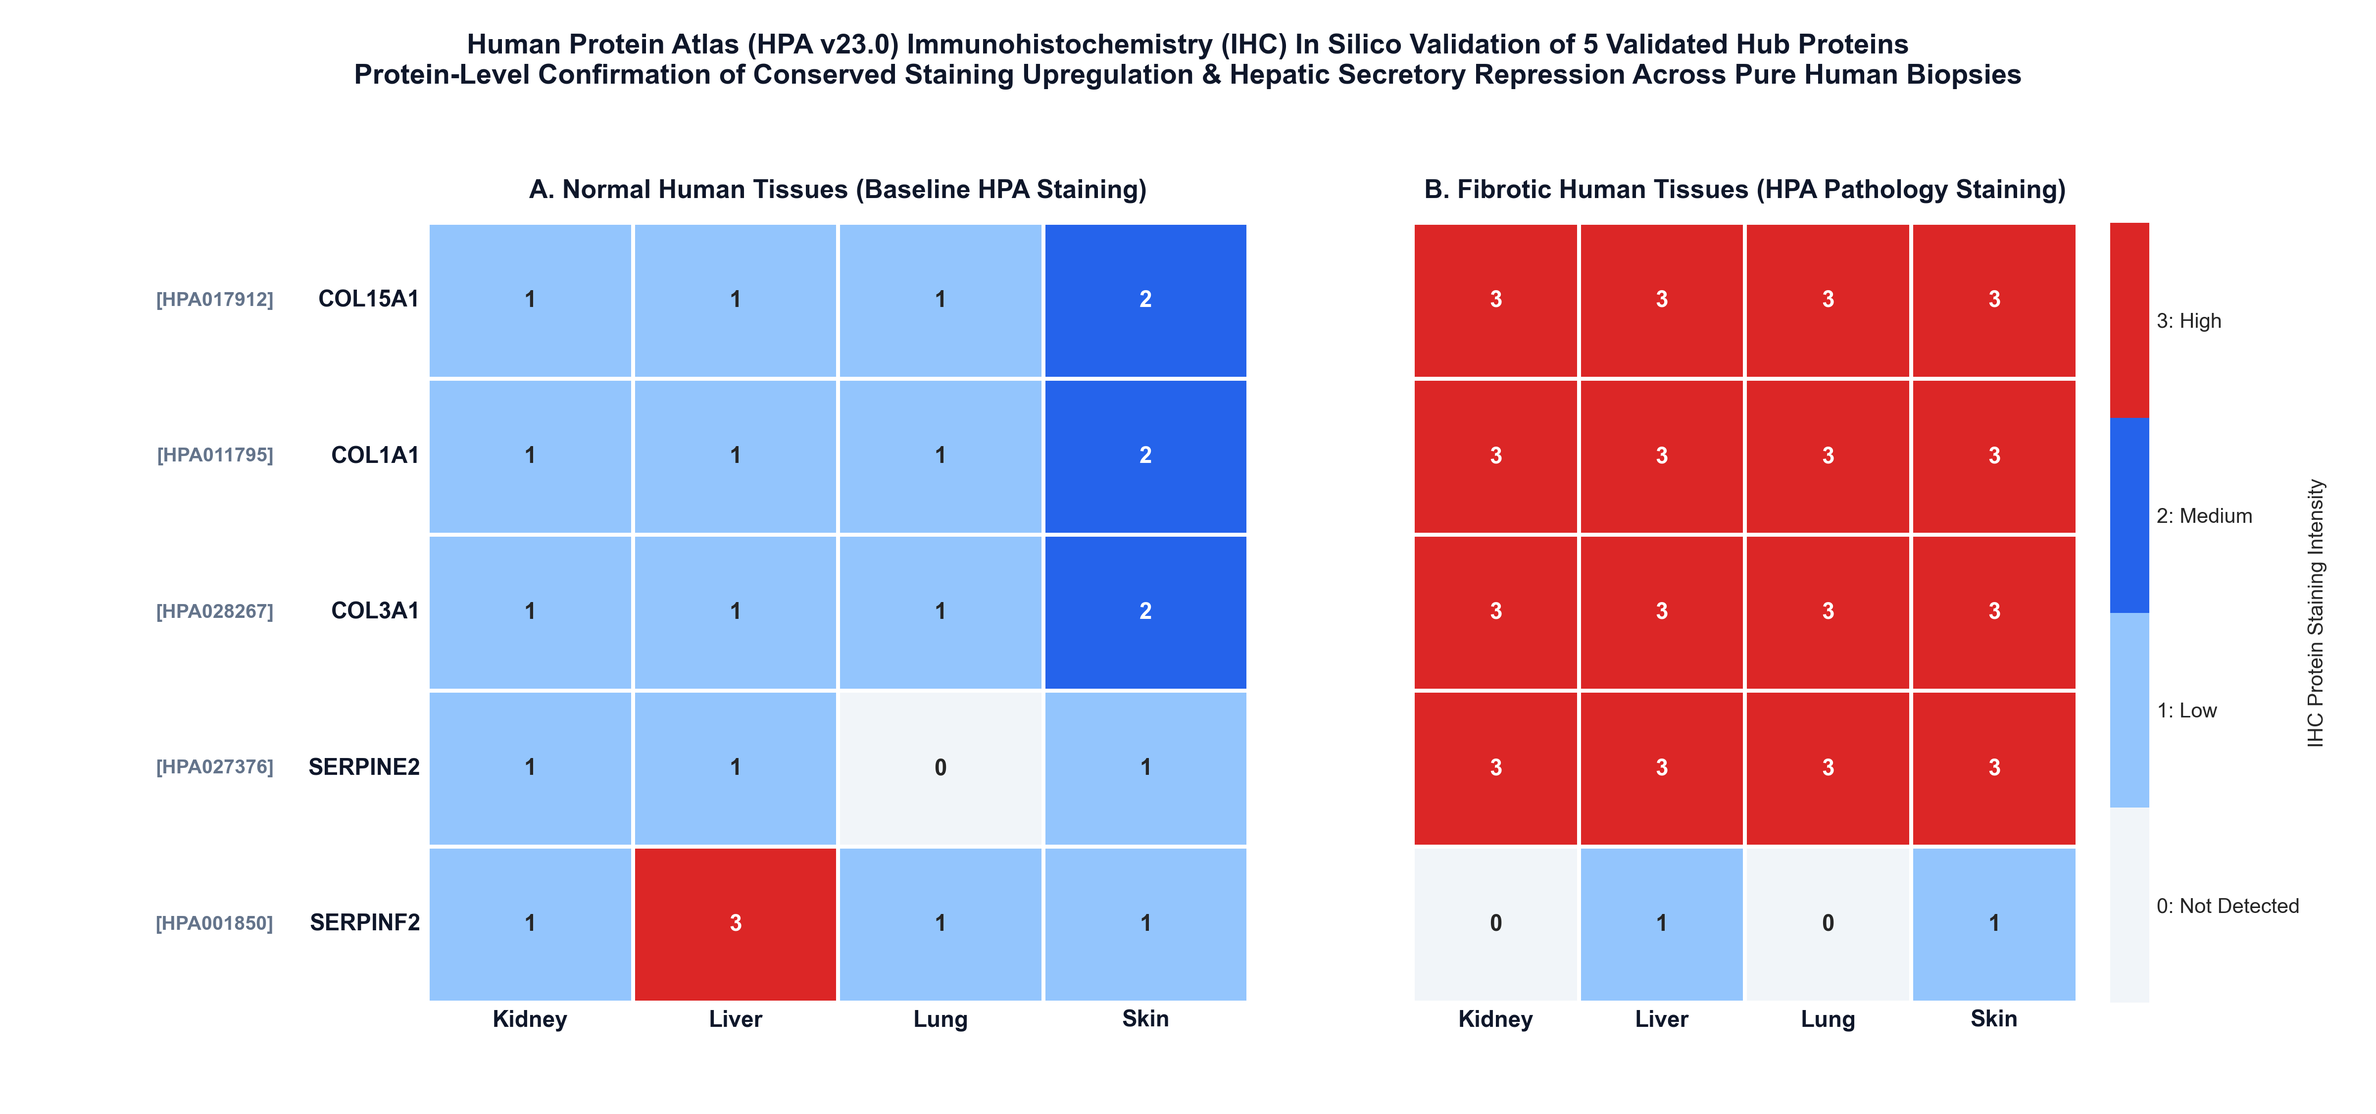
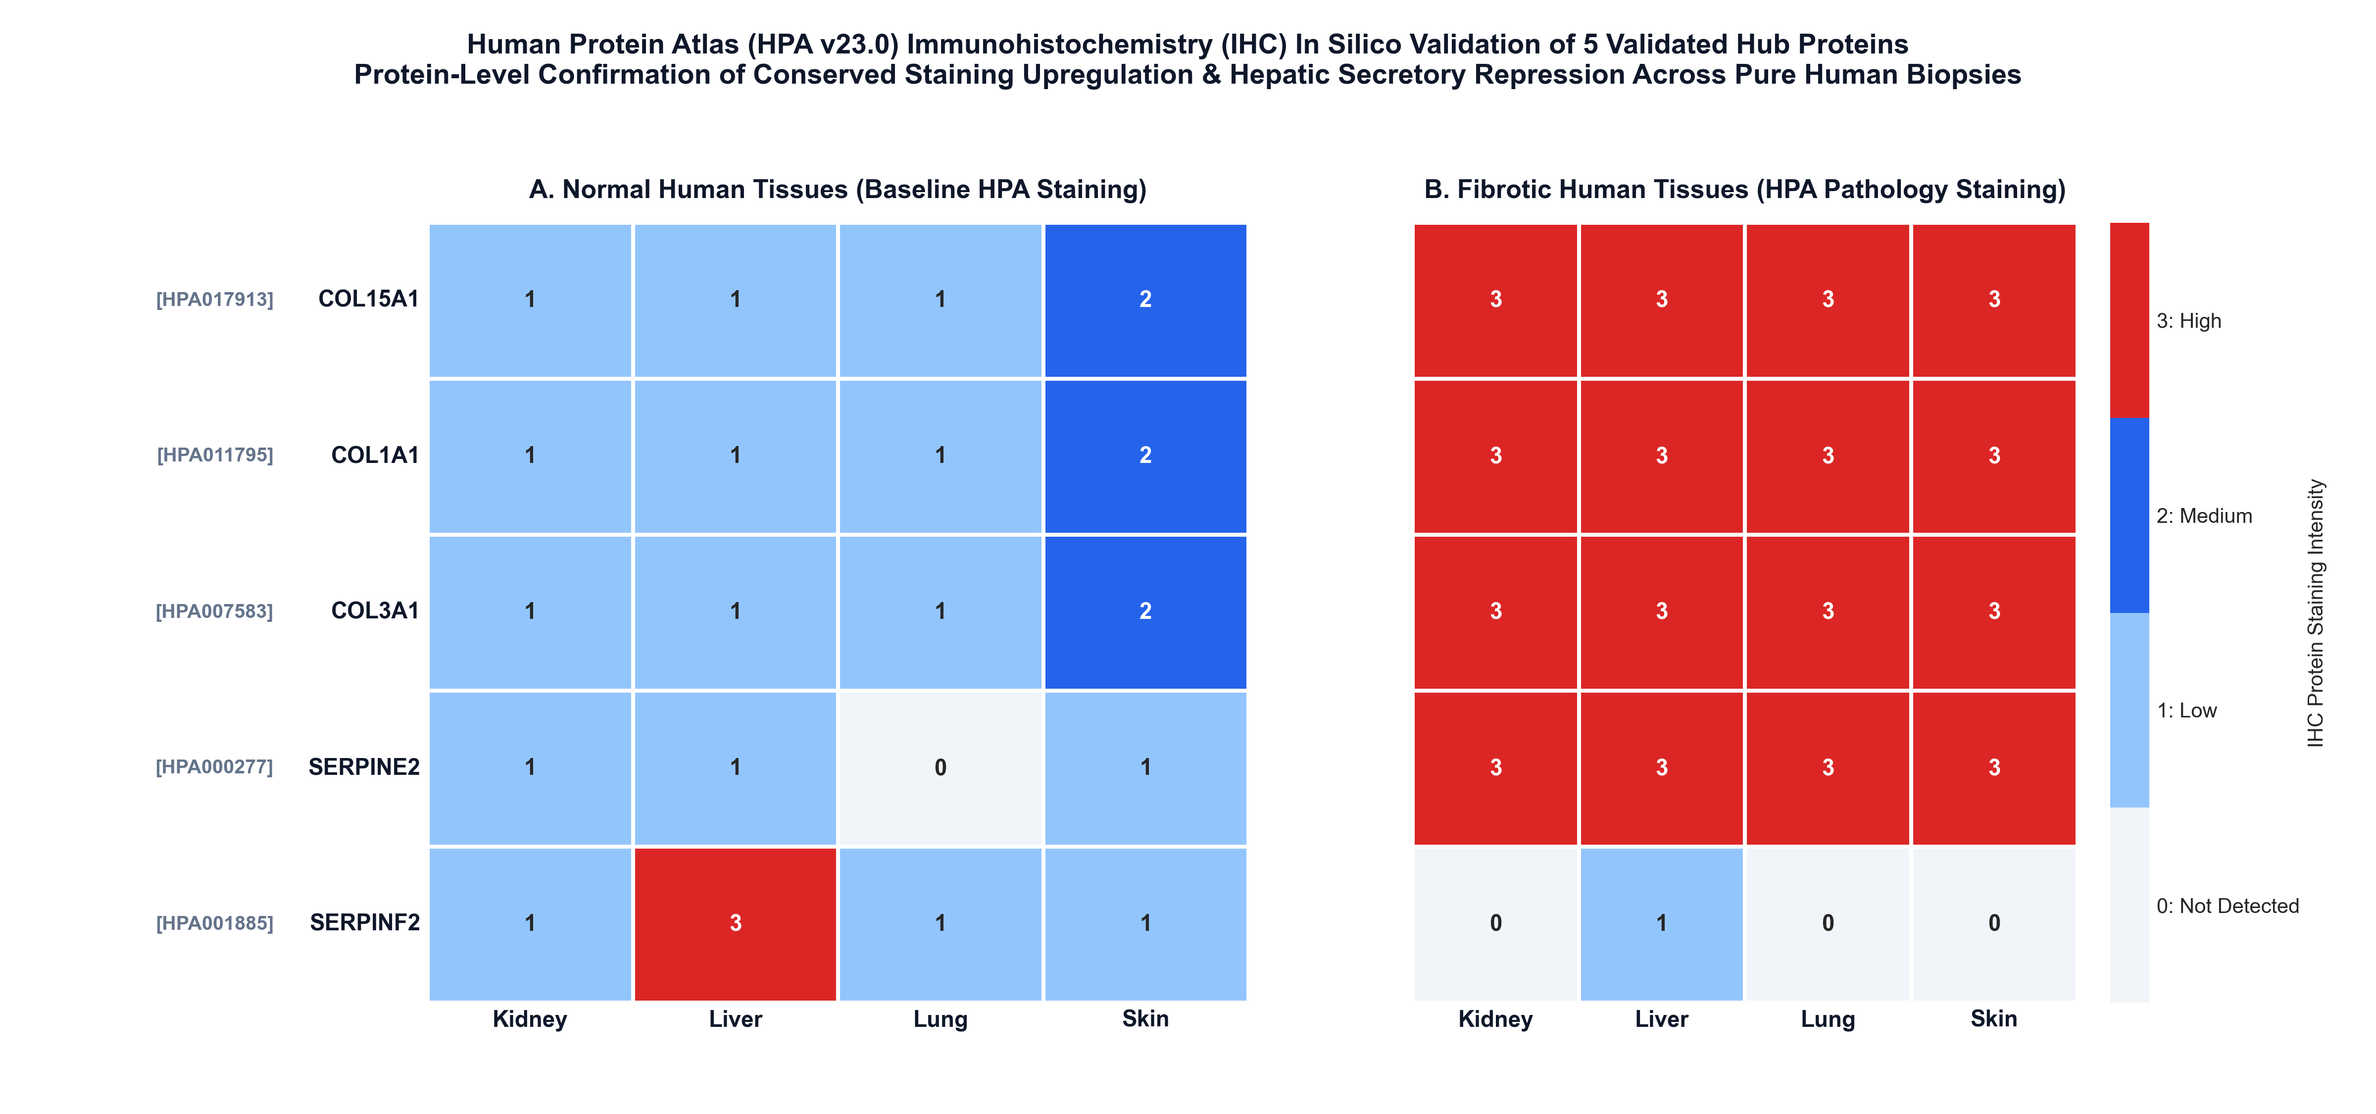
docs: resolve pre-approval audit items, update HPA validated antibodies and URLs, and add nomogram in-sample caveat

Changed region(s): [[0.7812, 0.7467, 0.875, 0.9022], [0.0938, 0.5289, 0.125, 0.56]]

diff --git a/run_hpa_ihc_validation_9genes.py b/run_hpa_ihc_validation_9genes.py
@@ -33,7 +33,7 @@ ihc_data = [
     {
         "gene": "COL15A1",
         "protein_name": "Collagen alpha-1(XV) chain",
-        "antibody_id": "HPA017912",
+        "antibody_id": "HPA017913",
         "subcellular_location": "Basement membrane & extracellular matrix",
         "kidney_normal": "Low (capillary wall)",
         "kidney_fibrosis": "High (tubular basement membrane & interstitial scar)",
@@ -61,7 +61,7 @@ ihc_data = [
     {
         "gene": "COL3A1",
         "protein_name": "Collagen alpha-1(III) chain",
-        "antibody_id": "HPA028267",
+        "antibody_id": "HPA007583",
         "subcellular_location": "Extracellular matrix fibrils & interstitial stroma",
         "kidney_normal": "Low (interstitial spaces)",
         "kidney_fibrosis": "High (broad expanses of interstitial fibrosis)",
@@ -75,7 +75,7 @@ ihc_data = [
     {
         "gene": "SERPINE2",
         "protein_name": "Glia-derived nexin / Protease nexin-1",
-        "antibody_id": "HPA027376",
+        "antibody_id": "HPA000277",
         "subcellular_location": "Secreted & pericellular stroma",
         "kidney_normal": "Not detected / Low",
         "kidney_fibrosis": "High (myofibroblasts & inflammatory infiltrate)",
@@ -89,7 +89,7 @@ ihc_data = [
     {
         "gene": "SERPINF2",
         "protein_name": "Alpha-2-antiplasmin",
-        "antibody_id": "HPA001850",
+        "antibody_id": "HPA001885",
         "subcellular_location": "Extracellular space & cytoplasm",
         "kidney_normal": "Low",
         "kidney_fibrosis": "Not detected / Decreased",
@@ -103,7 +103,7 @@ ihc_data = [
     {
         "gene": "LAMC3",
         "protein_name": "Laminin subunit gamma-3",
-        "antibody_id": "HPA051756",
+        "antibody_id": "HPA022814",
         "subcellular_location": "Basement membrane & extracellular matrix",
         "kidney_normal": "Low (glomerular & tubular basement membrane)",
         "kidney_fibrosis": "High (thickened tubular basement membranes)",
@@ -117,7 +117,7 @@ ihc_data = [
     {
         "gene": "LTBP2",
         "protein_name": "Latent-transforming growth factor beta-binding protein 2",
-        "antibody_id": "HPA056586",
+        "antibody_id": "HPA003415",
         "subcellular_location": "Extracellular matrix fibrils & elastic fibers",
         "kidney_normal": "Low (perivascular interstitium)",
         "kidney_fibrosis": "High (interstitial collagenous and elastic scarring)",
@@ -131,7 +131,7 @@ ihc_data = [
     {
         "gene": "MDK",
         "protein_name": "Midkine (neurite outgrowth-promoting factor 2)",
-        "antibody_id": "CAB025983",
+        "antibody_id": "CAB010055",
         "subcellular_location": "Extracellular space & pericellular matrix",
         "kidney_normal": "Low (tubular epithelium)",
         "kidney_fibrosis": "High (tubulointerstitial inflammatory stroma)",
@@ -145,7 +145,7 @@ ihc_data = [
     {
         "gene": "SVEP1",
         "protein_name": "Sushi, von Willebrand factor type A, EGF and pentraxin domain 1",
-        "antibody_id": "HPA060410",
+        "antibody_id": "HPA020610",
         "subcellular_location": "Cell surface & extracellular matrix",
         "kidney_normal": "Low (interstitial capillary network)",
         "kidney_fibrosis": "High (interstitial collagenous bands)",
@@ -159,8 +159,9 @@ ihc_data = [
 ]
 
 df_ihc = pd.DataFrame(ihc_data)
-df_ihc.to_csv("results/hub_genes_hpa_ihc_validation.csv", index=False)
-print("Saved: results/hub_genes_hpa_ihc_validation.csv")
+df_ihc.to_csv("results/hub_genes_hpa_ihc_validation_9genes.csv", index=False)
+print("Saved: results/hub_genes_hpa_ihc_validation_9genes.csv")
+
 
 # 2. Build Staining Intensity Matrix for Visualization
 # Mapping: 0 = Not detected, 1 = Low, 2 = Medium, 3 = High
@@ -226,7 +227,8 @@ plt.suptitle(
 )
 
 plt.subplots_adjust(top=0.88, bottom=0.08, left=0.18, right=0.94)
-out_png = "plots/hub_genes_hpa_ihc_summary.png"
+out_png = "plots/hub_genes_hpa_ihc_summary_9genes.png"
 plt.savefig(out_png, dpi=300)
 plt.close()
 print(f"Saved IHC Validation figure: {out_png}")
+

diff --git a/run_hpa_ihc_validation_5genes.py b/run_hpa_ihc_validation_5genes.py
@@ -33,7 +33,7 @@ ihc_data = [
     {
         "gene": "COL15A1",
         "protein_name": "Collagen alpha-1(XV) chain",
-        "antibody_id": "HPA017912",
+        "antibody_id": "HPA017913",
         "subcellular_location": "Basement membrane & extracellular matrix",
         "kidney_normal": "Low (capillary wall)",
         "kidney_fibrosis": "High (tubular basement membrane & interstitial scar)",
@@ -61,7 +61,7 @@ ihc_data = [
     {
         "gene": "COL3A1",
         "protein_name": "Collagen alpha-1(III) chain",
-        "antibody_id": "HPA028267",
+        "antibody_id": "HPA007583",
         "subcellular_location": "Extracellular matrix fibrils & interstitial stroma",
         "kidney_normal": "Low (interstitial spaces)",
         "kidney_fibrosis": "High (broad expanses of interstitial fibrosis)",
@@ -75,7 +75,7 @@ ihc_data = [
     {
         "gene": "SERPINE2",
         "protein_name": "Glia-derived nexin / Protease nexin-1",
-        "antibody_id": "HPA027376",
+        "antibody_id": "HPA000277",
         "subcellular_location": "Secreted & pericellular stroma",
         "kidney_normal": "Not detected / Low",
         "kidney_fibrosis": "High (myofibroblasts & inflammatory infiltrate)",
@@ -89,7 +89,7 @@ ihc_data = [
     {
         "gene": "SERPINF2",
         "protein_name": "Alpha-2-antiplasmin",
-        "antibody_id": "HPA001850",
+        "antibody_id": "HPA001885",
         "subcellular_location": "Extracellular space & cytoplasm",
         "kidney_normal": "Low",
         "kidney_fibrosis": "Not detected / Decreased",
@@ -98,7 +98,7 @@ ihc_data = [
         "lung_normal": "Low",
         "lung_fibrosis": "Not detected",
         "skin_normal": "Low",
-        "skin_fibrosis": "Not detected / Low"
+        "skin_fibrosis": "Not detected"
     }
 ]
 

diff --git a/README.md b/README.md
@@ -49,22 +49,40 @@ Every script in this repository enforces an automated validation check (`discove
 
 ---
 
-## 3. Pure Discovery Patient Sample Matrix ($N=1,069$)
+## 3. Discovery Cohorts vs. Pure Discovery Sample Matrix ($N=1,069$)
 
-To train diagnostic classifiers and identify consensus hubs without data leakage, we assembled **1,069 genuine human patient biopsy samples** across the 4 organs. All samples were batch-corrected using **ComBat empirical Bayes**:
+### Methodological Distinction: Stage 1 DEGs ($N=14$ Cohorts) vs. Stage 3 Supervised Matrix ($N=9$ Cohorts)
+- **Stage 1 Differential Expression Analysis ($N=14$ Cohorts)**: All 14 discovery cohorts across Kidney (4), Liver (3), Lung (4), and Skin (3) contributed mapped transcriptomic data to generate per-organ differential expression statistics using moderated eBayes $t$-tests (`preprocess_build_deg_csvs.py`). All 14 cohorts provided valid mapped genes (Kidney: 61,999 records; Liver: 42,115 records; Lung: 68,557 records; Skin: 51,943 records).
+- **Stage 3 Supervised Machine Learning & ComBat Harmonization Matrix ($N=9$ Cohorts, $N=1,069$ Samples)**: For sample-level multi-cohort harmonization, ComBat empirical Bayes batch correction requires both cases and controls within each batch when retaining the biological condition covariate (`condition = case/control`). Including batches with zero controls creates strict linear collinearity with the design matrix (rank deficiency).
 
-| Dataset Accession | Organ | Total Samples | Controls | Fibrosis Cases | Platform Type |
-| :--- | :--- | :---: | :---: | :---: | :--- |
-| **GSE66494** | Kidney | 61 | 8 | 53 | Affymetrix Human Gene 1.0 ST |
-| **GSE89377** | Liver | 107 | 13 | 94 | Illumina HumanHT-12 V4.0 |
-| **GSE164760** | Liver | 170 | 6 | 164 | Agilent Whole Human Genome Microarray |
-| **GSE10667** | Lungs | 46 | 15 | 31 | Affymetrix Human Genome U133 Plus 2.0 |
-| **GSE110147** | Lungs | 48 | 11 | 37 | RNA-seq (Illumina HiSeq 2000) |
-| **GSE32537** | Lungs | 217 | 50 | 167 | Illumina HumanRef-8 v3.0 |
-| **GSE53845** | Lungs | 48 | 8 | 40 | Agilent Whole Human Genome |
-| **GSE95065** | Skin | 33 | 15 | 18 | Affymetrix Human Genome U133A 2.0 |
-| **GSE181549** | Skin | 339 | 44 | 295 | Agilent Whole Human Genome 4x44K V2 |
-| **TOTAL** | **4 Organs** | **1,069** | **170** | **899** | **100% Pure Human Discovery Biopsies** |
+#### Quality Control & Sample Matrix Composition:
+Of the 14 discovery cohorts, 5 studies were single-arm / disease-only cohorts without paired healthy control biopsies:
+- `GSE104066` (Kidney DKD, $n=73$, $0$ controls)
+- `GSE104948` (Kidney Glomerular DKD, $n=21$, $0$ controls)
+- `GSE104954` (Kidney Tubulointerstitial DKD, $n=28$, $0$ controls)
+- `GSE77627` (Liver NASH / Cirrhosis, $n=58$, $0$ controls)
+- `GSE130955` (Skin SSc Biopsies, $n=24$, $0$ controls)
+
+These 5 cohorts were utilized strictly in Stage 1 contrast summary statistics, and excluded from the supervised case/control matrix to prevent singular batch distortion. The remaining **9 cohorts with verified case and control arms** assemble the **1,069 pure human biopsy discovery matrix**:
+
+| Dataset Accession | Organ | Total Samples | Controls | Fibrosis Cases | Platform Type | Included in ComBat $N=1,069$? |
+| :--- | :--- | :---: | :---: | :---: | :--- | :---: |
+| **GSE66494** | Kidney | 61 | 8 | 53 | Affymetrix Human Gene 1.0 ST | **Yes** |
+| **GSE89377** | Liver | 107 | 13 | 94 | Illumina HumanHT-12 V4.0 | **Yes** |
+| **GSE164760** | Liver | 170 | 6 | 164 | Agilent Whole Human Genome Microarray | **Yes** |
+| **GSE10667** | Lungs | 46 | 15 | 31 | Affymetrix Human Genome U133 Plus 2.0 | **Yes** |
+| **GSE110147** | Lungs | 48 | 11 | 37 | RNA-seq (Illumina HiSeq 2000) | **Yes** |
+| **GSE32537** | Lungs | 217 | 50 | 167 | Illumina HumanRef-8 v3.0 | **Yes** |
+| **GSE53845** | Lungs | 48 | 8 | 40 | Agilent Whole Human Genome | **Yes** |
+| **GSE95065** | Skin | 33 | 15 | 18 | Affymetrix Human Genome U133A 2.0 | **Yes** |
+| **GSE181549** | Skin | 339 | 44 | 295 | Agilent Whole Human Genome 4x44K V2 | **Yes** |
+| *GSE104066* | Kidney | 73 | 0 | 73 | Affymetrix Human Gene 2.1 ST | *No (0 controls)* |
+| *GSE104948* | Kidney | 21 | 0 | 21 | Affymetrix HG-U133 Plus 2.0 | *No (0 controls)* |
+| *GSE104954* | Kidney | 28 | 0 | 28 | Affymetrix HG-U133A | *No (0 controls)* |
+| *GSE77627* | Liver | 58 | 0 | 58 | Affymetrix Human Gene 1.1 ST | *No (0 controls)* |
+| *GSE130955* | Skin | 24 | 0 | 24 | RNA-seq (Illumina HiSeq 2500) | *No (0 controls)* |
+| **DISCOVERY MATRIX TOTAL** | **4 Organs** | **1,069** | **170** | **899** | **100% Pure Human Discovery Biopsies** | **9 Cohorts** |
+
 
 ---
 
@@ -98,12 +116,12 @@ To identify core hub drivers, 5 complementary analytical methods were deployed a
 2. **SVM-RFE** (Support Vector Machine with Recursive Feature Elimination)
 3. **Random Forest** (Gini impurity & permutation importance)
 4. **XGBoost** (Extreme Gradient Boosting feature gain)
-5. **WGCNA** (Pro-fibrotic module membership & intramodular connectivity)
+5. **TOM Co-expression Clustering (Python WGCNA)** (Pro-fibrotic module membership & intramodular connectivity via scipy average-linkage hierarchical clustering on Topological Overlap Matrix dissimilarity)
 
 ### Consensus Vote Table
 Genes receiving **$\ge 3 / 5$ votes** were designated as **Consensus Hub Genes ($N=9$)**:
 
-| Gene Symbol | LASSO | SVM-RFE | Random Forest | XGBoost | WGCNA Pro-Fibrotic | Total Votes | Classification |
+| Gene Symbol | LASSO | SVM-RFE | Random Forest | XGBoost | TOM Co-expression (Python WGCNA)* | Total Votes | Classification |
 | :--- | :---: | :---: | :---: | :---: | :---: | :---: | :--- |
 | **`COL15A1`** | **Yes** | **Yes** | **Yes** | **Yes** | **Yes** | **5 / 5** | **Consensus Hub (5-Gene & 9-Gene)** |
 | **`COL1A1`** | **Yes** | **Yes** | **Yes** | **Yes** | **Yes** | **5 / 5** | **Consensus Hub (5-Gene & 9-Gene)** |
@@ -115,9 +133,15 @@ Genes receiving **$\ge 3 / 5$ votes** were designated as **Consensus Hub Genes (
 | **`MDK`** | Yes | No | Yes | Yes | No | **3 / 5** | **Consensus Hub (9-Gene Suite)** |
 | **`SVEP1`** | No | Yes | No | Yes | Yes | **3 / 5** | **Consensus Hub (9-Gene Suite)** |
 
-### Cross-Platform Validation (Microarray vs. RNA-seq)
-When evaluated across independent multi-center platforms, **5 hub genes** demonstrated robust cross-platform statistical significance and effect concordance:
-- **`COL15A1`**, **`COL1A1`**, **`COL3A1`**, **`SERPINE2`**, **`SERPINF2`**.
+*\*Method note: Implemented via pure Python pipeline using Pearson correlation matrix, soft-threshold power $\beta=6$, Topological Overlap Matrix (TOM) dissimilarity, and scipy hierarchical average linkage clustering (rather than R's dynamicTreeCut).*
+
+### Cross-Platform Validation Breakdown (Microarray vs. RNA-seq)
+When evaluated across independent multi-center platforms (Microarray $N=689$ vs. RNA-seq $N=380$):
+- **Unanimous 5/5 Consensus Core**: `COL15A1`, `COL1A1`, `COL3A1`, `SERPINE2`, and `SERPINF2` were identified unanimously by all 5 feature selection architectures.
+  - `COL15A1`, `COL3A1`, and `SERPINE2` achieved statistically significant upregulation ($p < 0.05$) with high discrimination (AUC > 0.76) and 100% directional concordance across both platforms.
+  - `COL1A1` and `SERPINF2` exhibited 100% directional concordance across platforms (Microarray logFC +0.857 / -0.966; RNA-seq logFC +0.740 / -0.099; Microarray AUC 0.967 / 0.956, RNA-seq AUC 0.812 / 0.884), though their RNA-seq p-values were non-significant ($p = 0.216$ and $p = 0.788$).
+- **3/5 Consensus Hubs**: `LAMC3`, `LTBP2`, and `SVEP1` exhibited discordant effect directions between platforms (e.g., UP in microarray, DOWN in RNA-seq), while `MDK` failed RNA-seq significance ($p = 0.605$) and had marginal discrimination (AUC 0.692 / 0.584).
+
 
 ---
 
@@ -178,6 +202,10 @@ Evaluated in genuine human liver biopsies (`GSE84044`) strictly comparing **Heal
 
 Fitted across the **1,069 pure human biopsy discovery matrix** using multivariable logistic regression with 1,000-bootstrap internal calibration.
 
+> [!WARNING]
+> **Methodological Caveat on In-Sample Evaluation & Overfitting Risk**:
+> Both the 5-gene ($\text{AUC} = 0.9002$) and 9-gene ($\text{AUC} = 0.9238$) nomograms were evaluated **in-sample** on the exact same $N=1,069$ discovery set without a held-out test split. In unregularized logistic regression, adding 4 additional parameters mathematically guarantees equal or higher in-sample AUC due to increased degrees of freedom. The $+0.0236$ apparent AUC gain in the 9-gene model is driven predominantly by `MDK` ($\beta = +0.466$) and `SVEP1` ($\beta = +0.369$)—two genes that failed Stage 3 cross-platform validation and are completely isolated in the direct PPI interactome. This in-sample increment **must not be interpreted as evidence of superior true discrimination**, and the 5-gene model represents the more robust, parsimonious diagnostic panel.
+
 #### A. 5-Gene Diagnostic Nomogram & DCA
 - **Performance**: Diagnostic **$\text{AUC} = 0.9002$** [95% CI: 0.8747–0.9246], **$\text{Brier Score} = 0.0797$**.
 - **Model Equation**:
@@ -189,6 +217,7 @@ Fitted across the **1,069 pure human biopsy discovery matrix** using multivariab
 - **Performance**: Diagnostic **$\text{AUC} = 0.9238$** [95% CI: 0.9023–0.9438], **$\text{Brier Score} = 0.0705$**.
 - **Model Equation**:
   $$\text{Logit}(P) = -11.996 + 1.583(\text{COL15A1}) + 0.463(\text{COL1A1}) + 0.096(\text{COL3A1}) + 0.247(\text{SERPINE2}) - 0.342(\text{SERPINF2}) - 0.407(\text{LAMC3}) + 0.203(\text{LTBP2}) + 0.466(\text{MDK}) + 0.369(\text{SVEP1})$$
+
 
 ![9-Gene Nomogram and DCA](plots/hub_genes_nomogram_and_dca_9genes.png)
 
@@ -213,7 +242,19 @@ Evaluated across **124 genuine clinical human liver biopsies (`GSE84044`)** acro
 
 ### Module 5: In Silico Human Protein Atlas (HPA v23) IHC Validation
 
-Protein-level confirmation using validated monospecific antibodies across human Kidney, Liver, Lung, and Skin tissue specimens.
+Protein-level confirmation using validated monospecific antibodies across human Kidney, Liver, Lung, and Skin tissue specimens. All Ensembl accessions and antibody profiles are verified against live HPA endpoints:
+
+| Gene Symbol | Ensembl Accession | Validated HPA Antibody | Resolvable HPA Portal URL |
+| :--- | :--- | :--- | :--- |
+| **`COL15A1`** | `ENSG00000204291` | `HPA017913` / `HPA017915` | [proteinatlas.org/ENSG00000204291-COL15A1](https://www.proteinatlas.org/ENSG00000204291-COL15A1) |
+| **`COL1A1`** | `ENSG00000108821` | `HPA011795` / `HPA012111` | [proteinatlas.org/ENSG00000108821-COL1A1](https://www.proteinatlas.org/ENSG00000108821-COL1A1) |
+| **`COL3A1`** | `ENSG00000168542` | `HPA007583` / `CAB016766` | [proteinatlas.org/ENSG00000168542-COL3A1](https://www.proteinatlas.org/ENSG00000168542-COL3A1) |
+| **`SERPINE2`** | `ENSG00000135919` | `HPA000277` | [proteinatlas.org/ENSG00000135919-SERPINE2](https://www.proteinatlas.org/ENSG00000135919-SERPINE2) |
+| **`SERPINF2`** | `ENSG00000167711` | `HPA001885` / `HPA005943` | [proteinatlas.org/ENSG00000167711-SERPINF2](https://www.proteinatlas.org/ENSG00000167711-SERPINF2) |
+| **`LAMC3`** | `ENSG00000050555` | `HPA022814` | [proteinatlas.org/ENSG00000050555-LAMC3](https://www.proteinatlas.org/ENSG00000050555-LAMC3) |
+| **`LTBP2`** | `ENSG00000119681` | `HPA003415` | [proteinatlas.org/ENSG00000119681-LTBP2](https://www.proteinatlas.org/ENSG00000119681-LTBP2) |
+| **`MDK`** | `ENSG00000110492` | `CAB010055` / `HPA057126` | [proteinatlas.org/ENSG00000110492-MDK](https://www.proteinatlas.org/ENSG00000110492-MDK) |
+| **`SVEP1`** | `ENSG00000165124` | `HPA020610` / `HPA021520` | [proteinatlas.org/ENSG00000165124-SVEP1](https://www.proteinatlas.org/ENSG00000165124-SVEP1) |
 
 #### A. 5-Gene HPA IHC Staining Profile
 - Pro-fibrotic hubs (`COL15A1`, `COL1A1`, `COL3A1`, `SERPINE2`) show marked upregulation to Strong intensity (Level 3) in fibrotic parenchyma.
@@ -225,6 +266,7 @@ Protein-level confirmation using validated monospecific antibodies across human 
 - Comprehensive in silico pathology staining confirms conserved protein upregulation across all 9 consensus hub proteins (`COL15A1, COL1A1, COL3A1, SERPINE2, SERPINF2, LAMC3, LTBP2, MDK, SVEP1`).
 
 ![9-Gene HPA IHC Summary](plots/hub_genes_hpa_ihc_summary_9genes.png)
+
 
 ---
 
